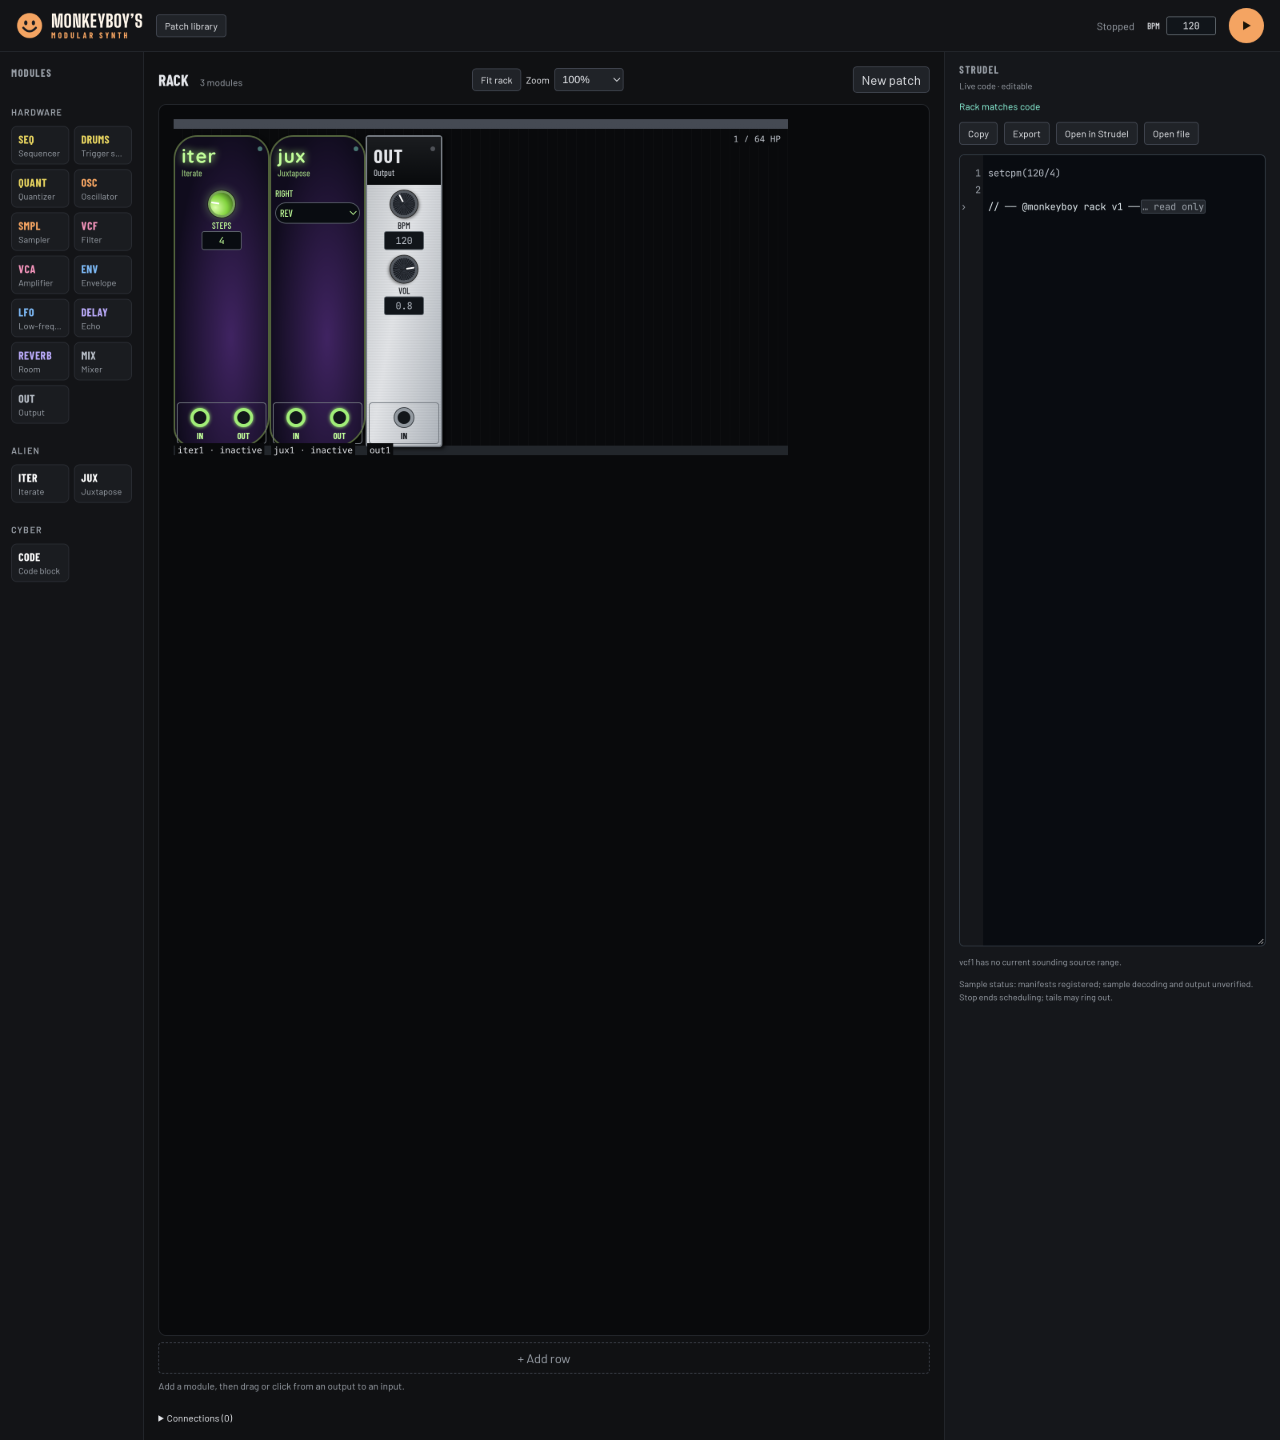
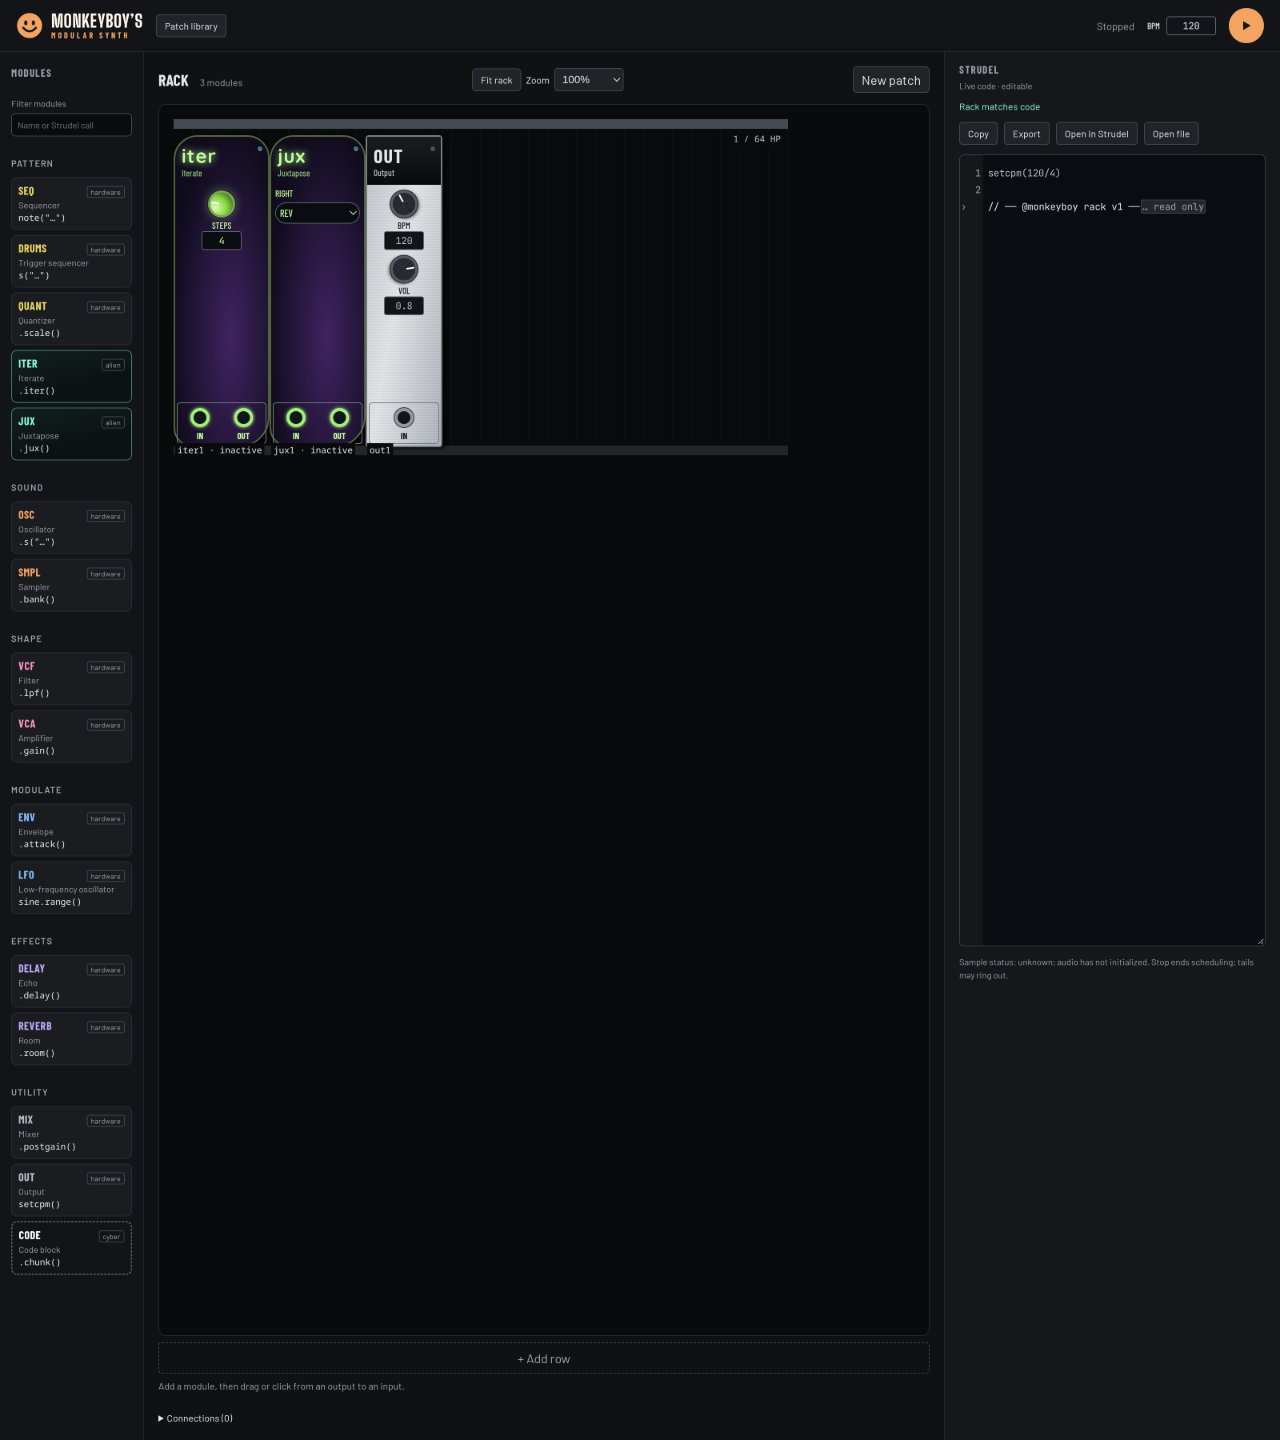
Verify rack layout beside the updated palette

diff --git a/docs/rack-feel-verification.md b/docs/rack-feel-verification.md
@@ -57,6 +57,11 @@ passed again. A native keyboard edit during playback changed 964→971 Hz while
 retaining “Pattern scheduled” and nonzero PCM (RMS 0.00549). Screenshots were
 recaptured with the current folded-metadata editor.
 
+After the final rebase onto `e541524` (the new searchable palette), the gate
+passed with 787 tests and 40 guardrails, and the 183-observation matrix plus
+Enveloped fit/cable checks passed again. The screenshots below include that
+palette. The feature diff is unchanged by this rebase.
+
 The private online design canvas was not accessed; the repository's supplied
 PNG/HTML board exports were available as references.
 
